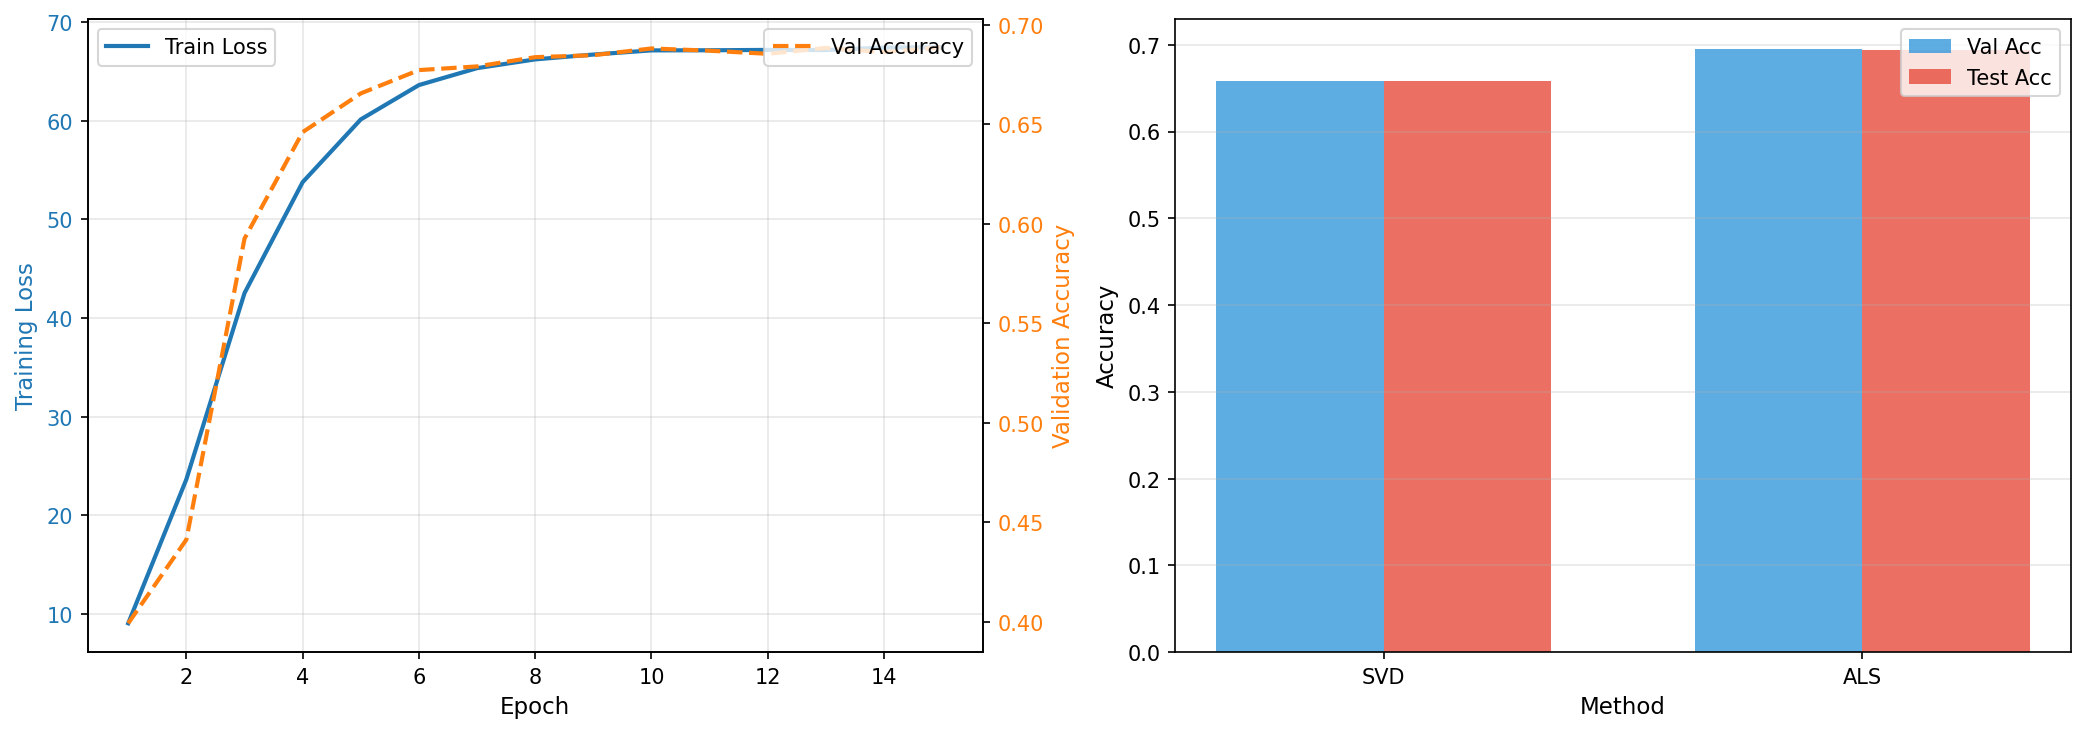
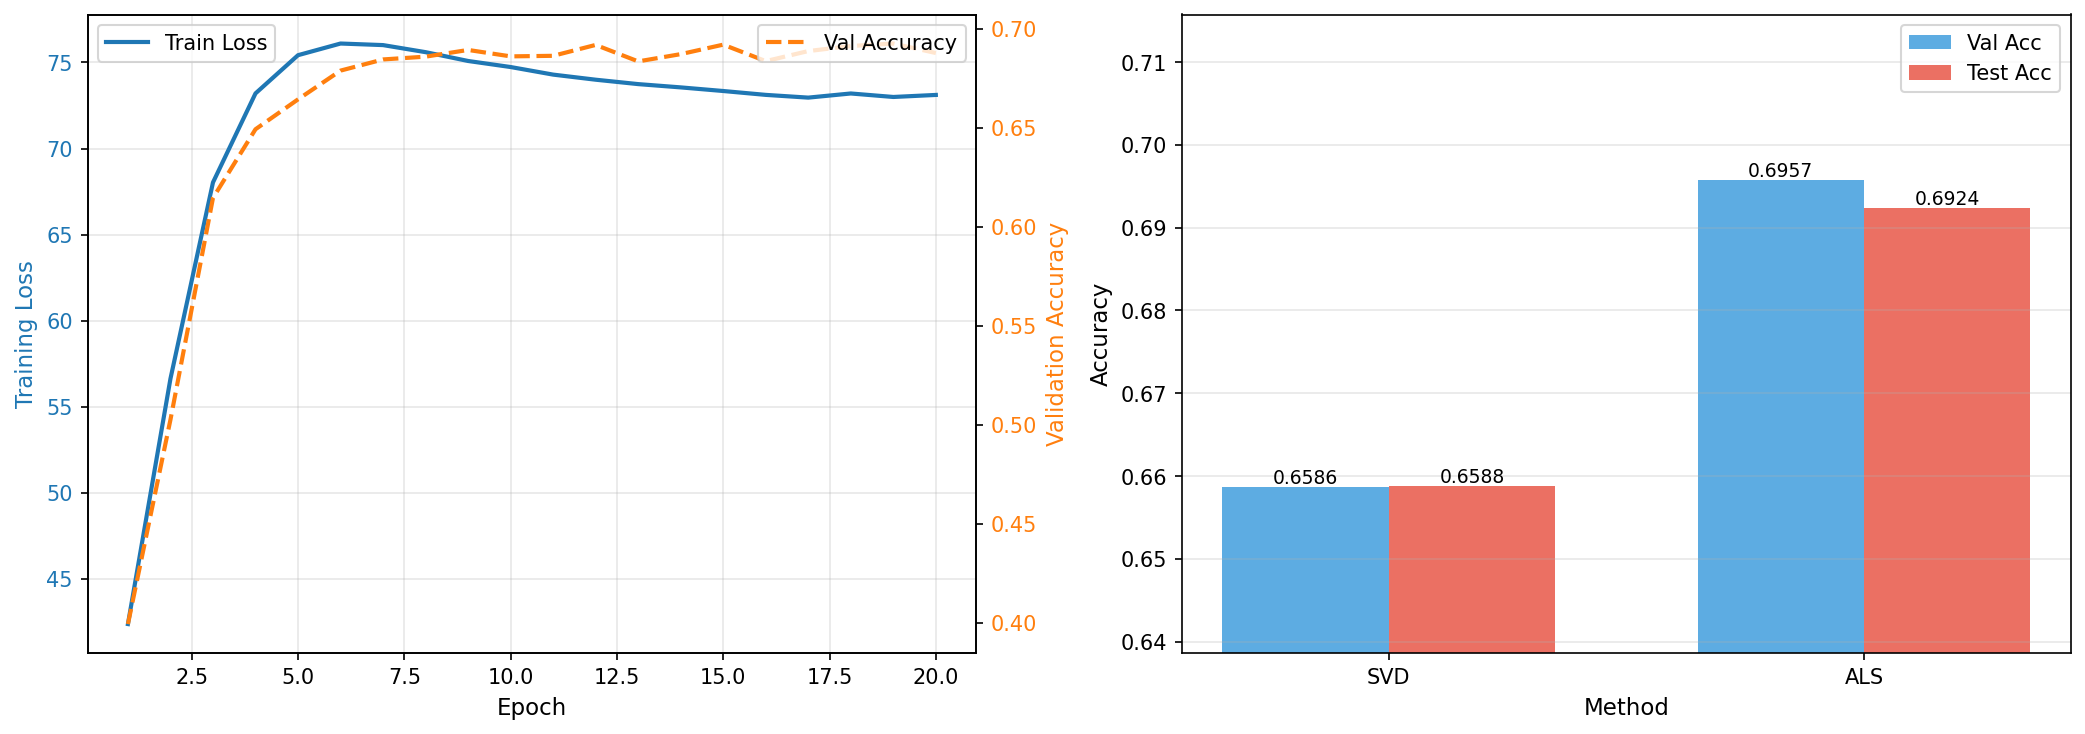
sửa lại code mf_comparison_2201040173

diff --git a/starter/matrix_factorization.py b/starter/matrix_factorization.py
@@ -277,13 +277,23 @@ def main():
     
     # Right: Performance comparison
     methods = ['SVD', 'ALS']
+    val_accs_plot = [svd_best_val, als_best_val]
+    test_accs_plot = [svd_best_test, als_best_test]
     x = np.arange(len(methods))
     width = 0.35
     
-    ax2.bar(x - width/2, [svd_best_val, als_best_val], width, label='Val Acc', 
+    bars1 = ax2.bar(x - width/2, val_accs_plot, width, label='Val Acc', 
             color='#3498db', alpha=0.8)
-    ax2.bar(x + width/2, [svd_best_test, als_best_test], width, label='Test Acc', 
+    bars2 = ax2.bar(x + width/2, test_accs_plot, width, label='Test Acc', 
             color='#e74c3c', alpha=0.8)
+    
+    # Add value labels on bars
+    for bars in [bars1, bars2]:
+        for bar in bars:
+            height = bar.get_height()
+            ax2.text(bar.get_x() + bar.get_width()/2., height,
+                    f'{height:.4f}',
+                    ha='center', va='bottom', fontsize=9)
     
     ax2.set_xlabel('Method', fontsize=11)
     ax2.set_ylabel('Accuracy', fontsize=11)
@@ -291,6 +301,8 @@ def main():
     ax2.set_xticklabels(methods)
     ax2.legend()
     ax2.grid(True, alpha=0.3, axis='y')
+    ax2.set_ylim([min(min(val_accs_plot), min(test_accs_plot)) - 0.02, 
+                  max(max(val_accs_plot), max(test_accs_plot)) + 0.02])
     
     plt.tight_layout()
     comparison_plot_name = f"mf_comparison_{student_id}.png"
